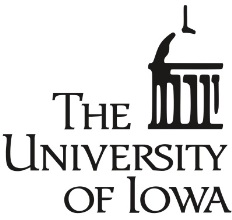
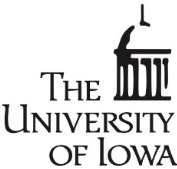
upated

diff --git a/_pages/about.md b/_pages/about.md
@@ -287,7 +287,8 @@ For latest publications, please visit <u><a href="https://scholar.google.com/cit
     <b>Electroencephalography and Local Field Potentials in Parkinson's Disease: Models and Diagnosis</b>
     <br>Md Fahim Anjum
     <br>The University of Iowa, 2021
-    <br><a href="https://www.proquest.com/dissertations-theses/electroencephalography-local-field-potentials/docview/2632097655/se-2?accountid=14525">pdf</a> 
+    <br><a href="https://www.proquest.com/dissertations-theses/electroencephalography-local-field-potentials/docview/2632097655/se-2?accountid=14525">pdf</a>
+    </p> 
   </div>
   <div class="archive__pub__right">
     <div class="square">
@@ -386,7 +387,7 @@ For latest publications, please visit <u><a href="https://scholar.google.com/cit
   </div>
   <div class="archive__pub__right">
     <div class="square">
-        <img  src="images/sample.png"> 
+        <img  src="images/uiowa.png"> 
     </div>
   </div>
 </div>
